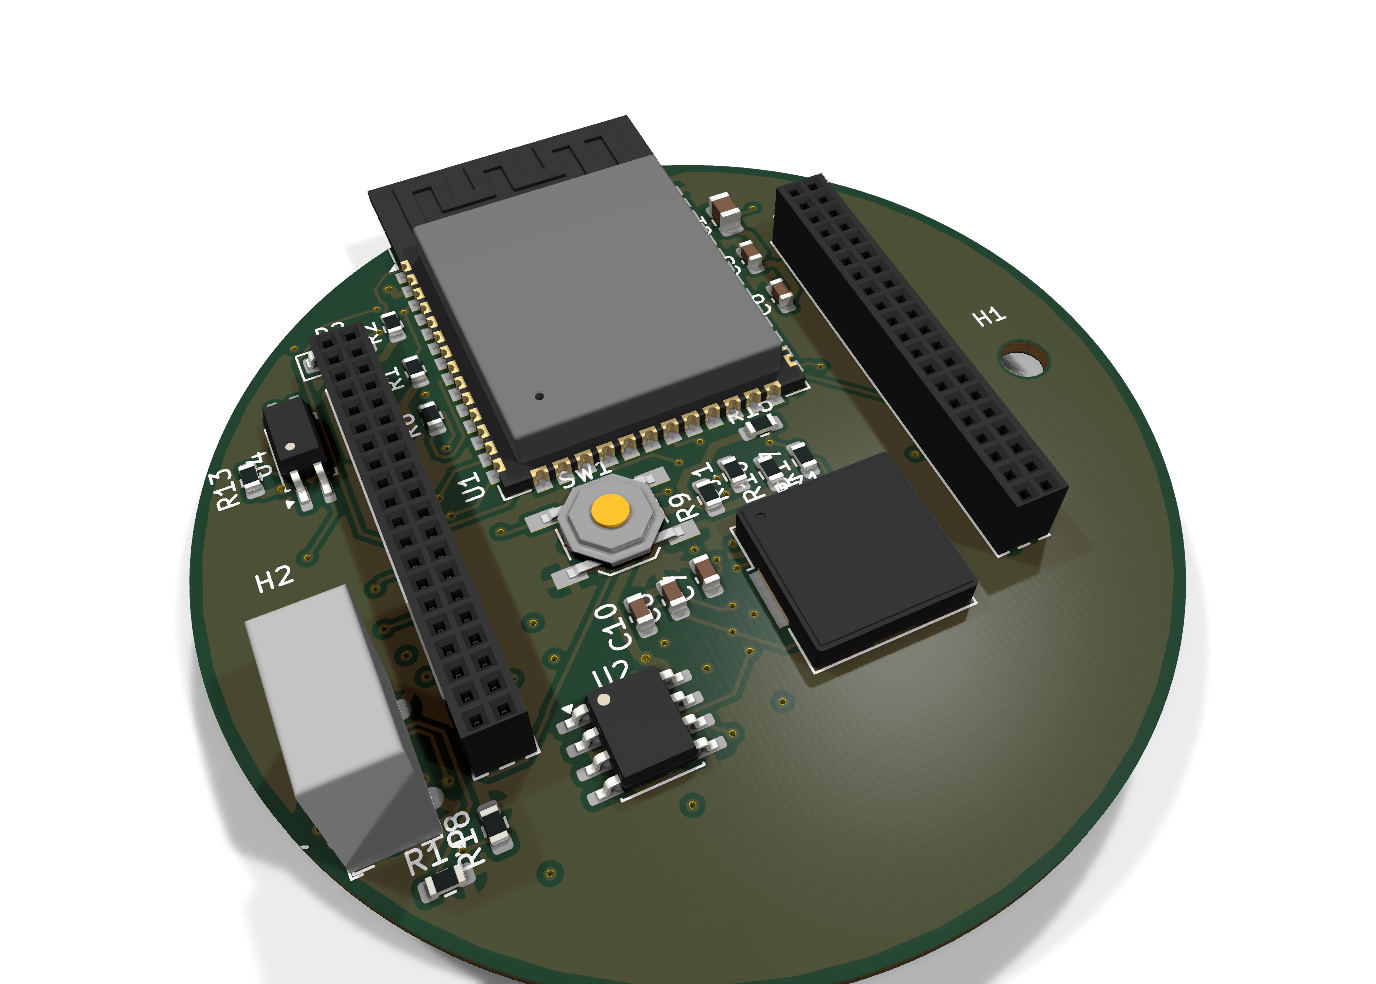
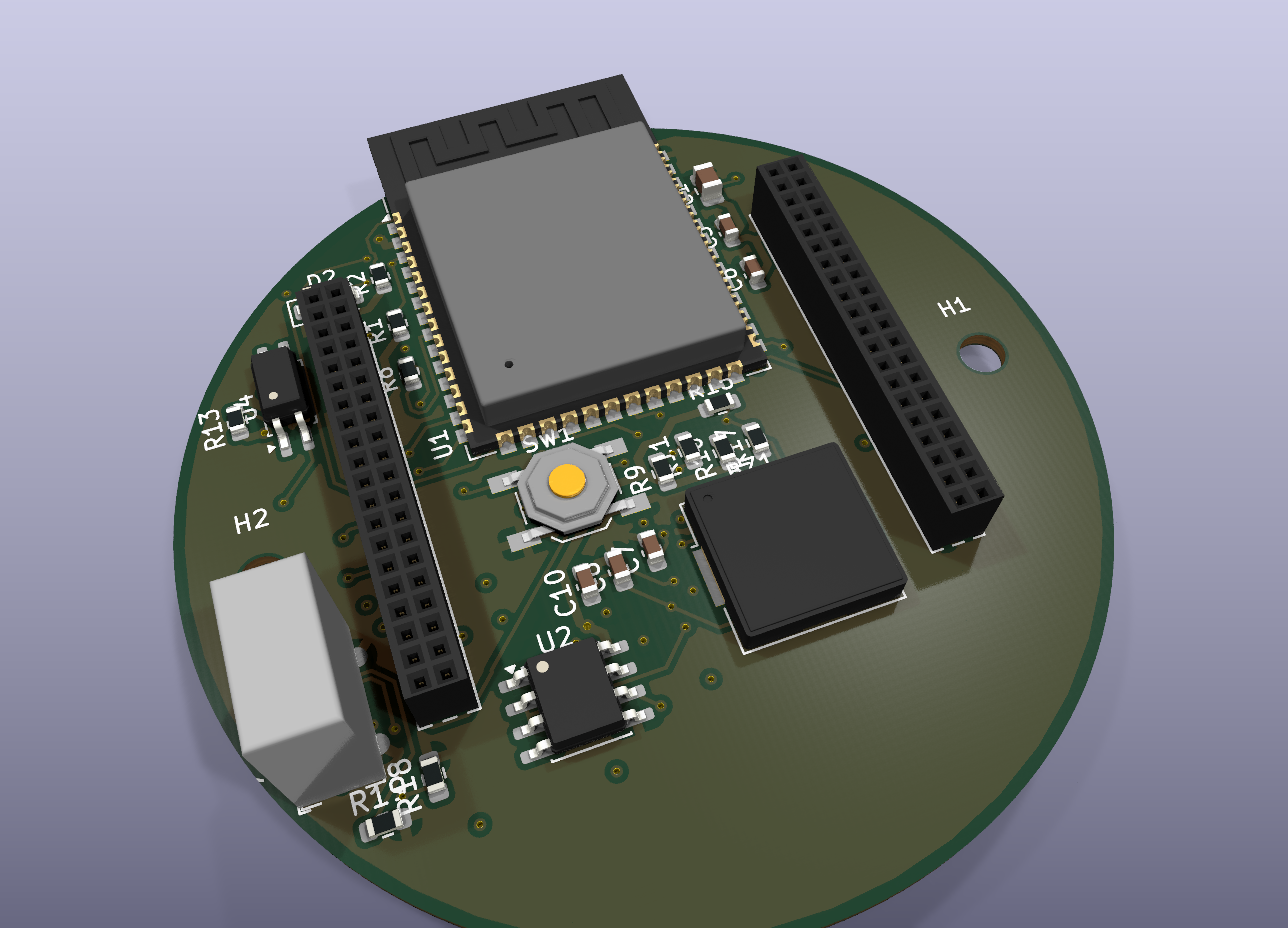
Stapelansicht als Bild, und das Feldstecker-Modell sass spiegelverkehrt
docs/renders/stack.png zeigt die drei Boards in ihrer Stapelreihenfolge, aus
den echten Boarddateien gerendert und uebereinandergelegt. Erkennbar sind die
vier Ecktaster und die mittige Klinke auf Top, die Randkerbe an dessen linkem
Rand, die quergestellte USB-Buchse auf Mid, die genau dorthin zeigt, und der
lange Feldstecker auf Bottom.

Erzeugt wird es aus drei Einzelrenderings mit transparentem Hintergrund, die
mit 210 px Versatz uebereinandergelegt werden - eine Explosionsdarstellung
ohne eigenes Rendersystem.

MODELLFEHLER GEFUNDEN UND BEHOBEN: Die selbst erzeugten Steckverbindermodelle
sassen spiegelverkehrt. Das Footprint zaehlt Y nach unten, KiCads 3D-Ansicht
nach oben - ein unveraendert uebernommener F.Fab-Grundriss landet deshalb
neben seinem Padfeld statt darauf. Beim Feldstecker lag der Koerper quer ueber
der halben Platine. connector_models.py spiegelt Y jetzt.

Neu dazu das Modell des 2x8-Feldsteckers, das es vorher nicht gab - im
3D-View waren dort nackte Pads zu sehen.

Alle drei Boards verweisen jetzt auf die Projektmodelle.

diff --git a/mechanical/connector_models.py b/mechanical/connector_models.py
@@ -44,6 +44,9 @@ TEILE = [
     ("Connector_Molex", "Molex_Micro-Fit_3.0_43045-2012_2x10_P3.00mm_Vertical",
      8.9, "Molex 43045, Serienmass Steckerhoehe ueber Platine; docs/04 "
           "rechnet mit 10,0 mm inklusive gestecktem Gegenstueck"),
+    ("Connector_Molex", "Molex_Micro-Fit_3.0_43045-1612_2x08_P3.00mm_Vertical",
+     8.9, "wie oben - das ist der Feldstecker, ueber den seit dem 18.08.2026 "
+          "die gesamte Verdrahtung laeuft"),
     ("Connector_Molex", "Molex_Micro-Fit_3.0_43045-0612_2x03_P3.00mm_Vertical",
      8.9, "wie oben, nur kuerzer"),
     ("Connector_USB", "USB_C_Receptacle_G-Switch_GT-USB-7051x",
@@ -81,6 +84,11 @@ def bauen(lib, name, hoehe):
     if box is None:
         return None, None
     x0, x1, y0, y1 = box
+    # Y SPIEGELN. Das Footprint zaehlt Y nach unten, KiCads 3D-Ansicht nach
+    # oben - ein unveraendert uebernommener Grundriss sitzt sonst spiegelbildlich
+    # neben seinen Pads. Beim ersten Versuch am 18.08.2026 lag der Feldstecker
+    # deshalb quer ueber der halben Platine statt auf seinem Padfeld.
+    y0, y1 = -y1, -y0
     with BuildPart() as p:
         with BuildSketch(Plane.XY):
             Polygon((x0, y0), (x1, y0), (x1, y1), (x0, y1), align=None)
